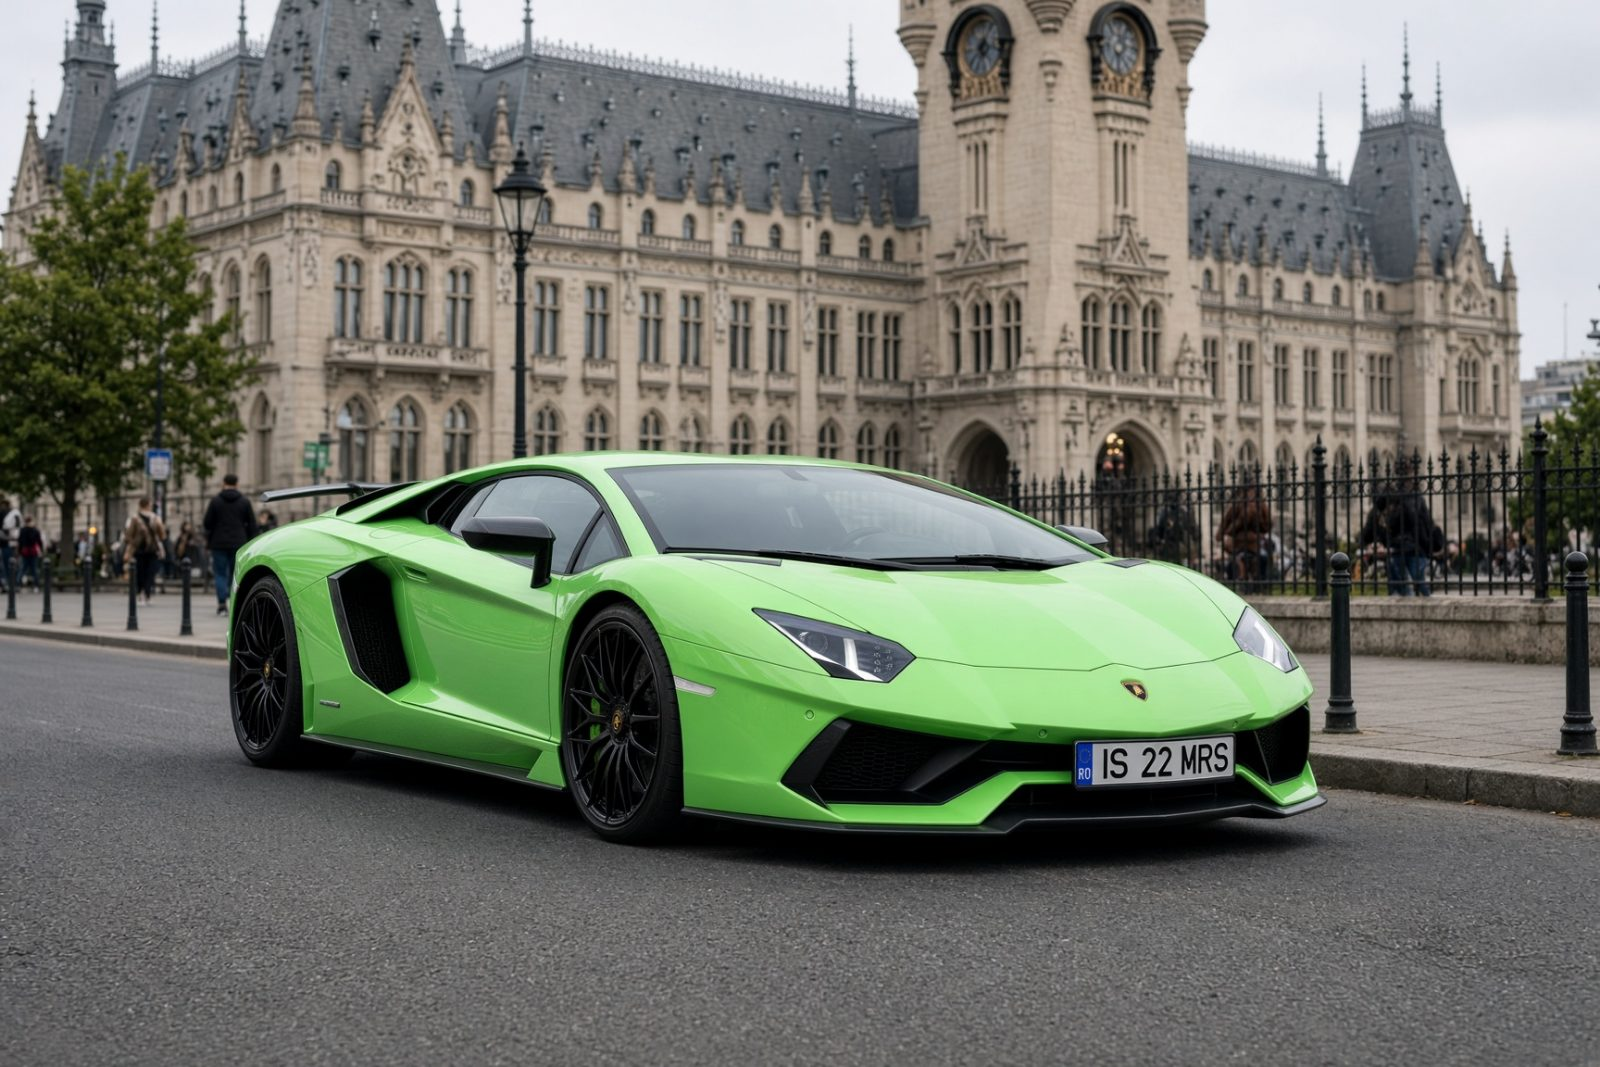
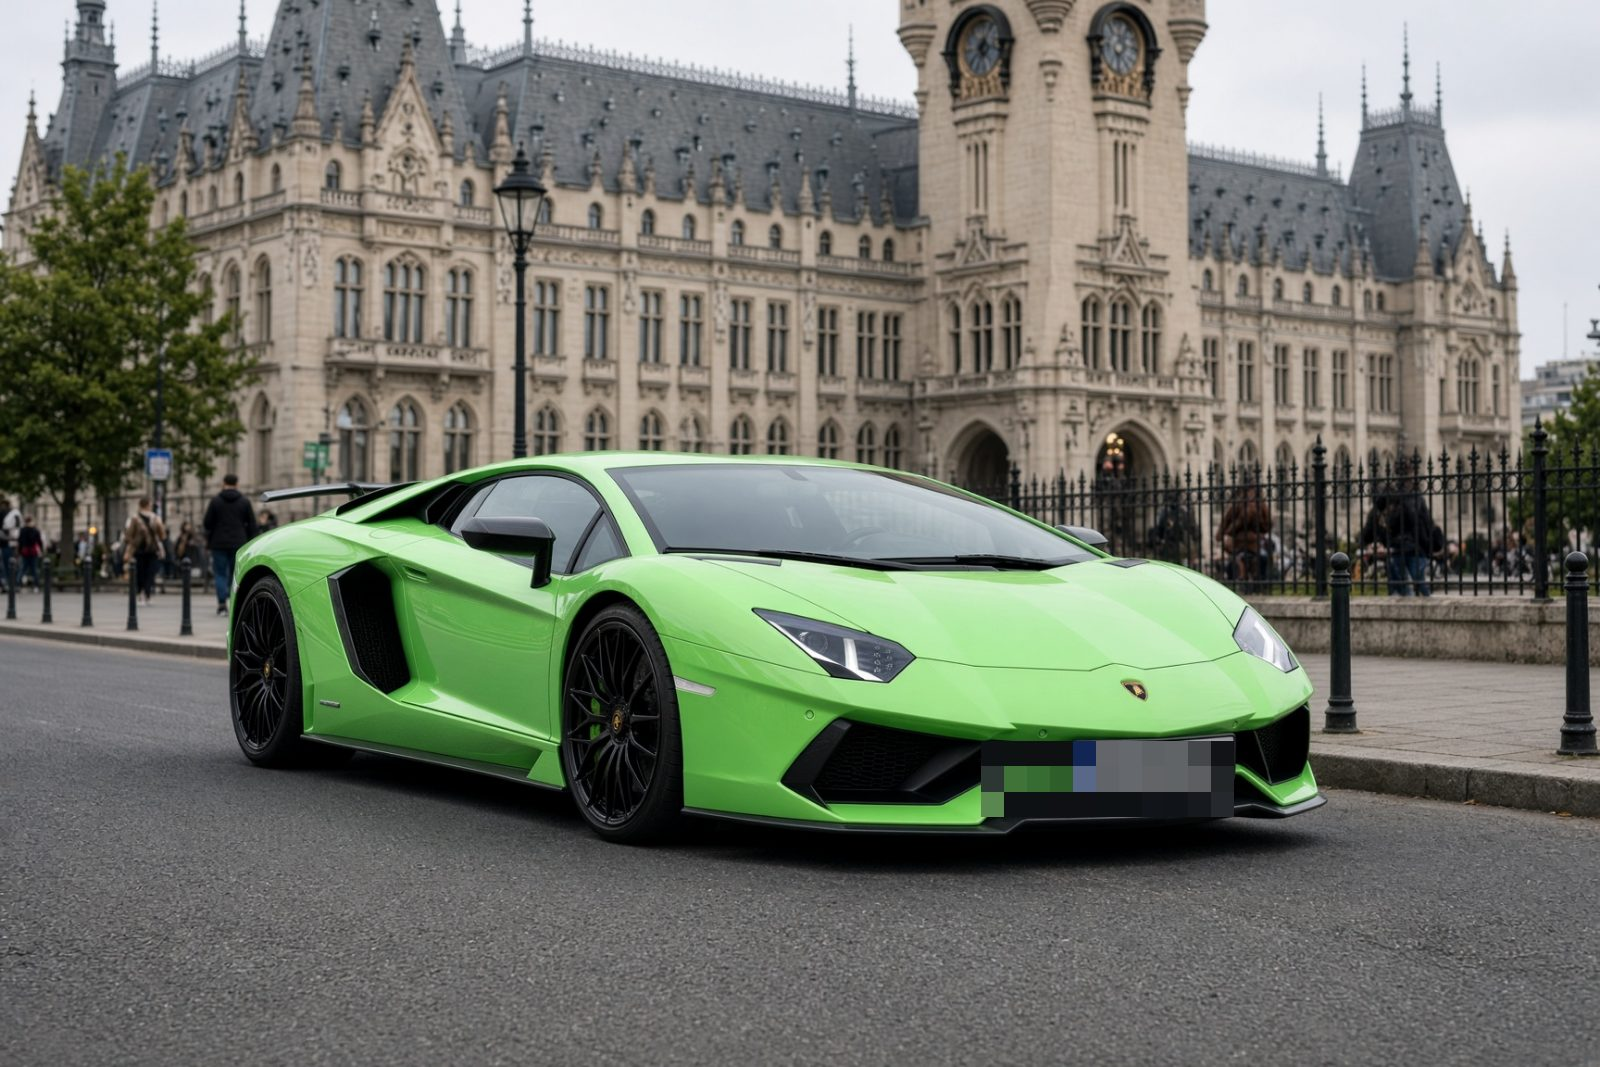
Despre: text Marius (swing, 6+ ani), plăci blurate, Telegram Free Marius FX, polish v=3

Changed region(s): [[0.5938, 0.6804, 0.7812, 0.7732]]

diff --git a/styles.css b/styles.css
@@ -101,12 +101,25 @@ img { max-width: 100%; display: block; }
 .slot { margin: 0; }
 .slot a { display: block; }
 .slot-img {
-  aspect-ratio: 16 / 10; border: 2px dashed #2c3d5f; border-radius: var(--radius); background: rgba(15,24,41,.5);
-  display: flex; flex-direction: column; align-items: center; justify-content: center; gap: .6rem; color: var(--muted); font-weight: 600; font-size: .95rem; text-align: center; padding: 1rem;
+  aspect-ratio: 16 / 10; border: 1.5px dashed #2a3a58; border-radius: var(--radius);
+  background:
+    linear-gradient(180deg, rgba(34,197,94,.04), transparent 60%),
+    rgba(15,24,41,.55);
+  display: flex; flex-direction: column; align-items: center; justify-content: center; gap: .6rem;
+  color: var(--muted); font-weight: 600; font-size: .92rem; text-align: center; padding: 1rem;
+  transition: border-color .25s, background .25s;
 }
-.slot-icon { width: 44px; height: 44px; border-radius: 50%; border: 1.5px dashed #3a4f78; display: grid; place-items: center; font-size: 1.5rem; line-height: 1; color: var(--muted); font-weight: 400; }
-.slot-img.has-img { border: 1px solid var(--border); padding: 0; overflow: hidden; background: var(--surface); }
-.slot-img.has-img img { width: 100%; height: 100%; object-fit: cover; object-position: top; }
+.slot:hover .slot-img { border-color: rgba(34,197,94,.45); }
+.slot-icon {
+  width: 42px; height: 42px; border-radius: 50%; border: 1.5px dashed #3a4f78;
+  display: grid; place-items: center; font-size: 1.4rem; line-height: 1; color: var(--green); font-weight: 400;
+  background: var(--green-soft);
+}
+.slot-img.has-img { border: 1px solid var(--border); border-style: solid; padding: 0; overflow: hidden; background: var(--surface); }
+.slot-img.has-img img {
+  display: block; width: 100%; height: auto; max-width: 100%;
+  aspect-ratio: 16 / 10; object-fit: contain; object-position: top;
+}
 .slot figcaption { display: flex; justify-content: space-between; align-items: baseline; gap: 1rem; margin-top: .8rem; font-size: .92rem; }
 .slot figcaption strong { color: var(--green); font-family: var(--mono); font-weight: 500; font-size: .85rem; text-transform: uppercase; letter-spacing: .05em; }
 .slot figcaption span { color: var(--muted); }
@@ -140,15 +153,41 @@ input:focus, textarea:focus { outline: none; border-color: var(--green); box-sha
 .pos { color: var(--green-2); } .neg { color: var(--red); }
 
 /* Despre */
-.about { display: grid; grid-template-columns: 300px 1fr; gap: 3.5rem; align-items: center; }
-.about-photo { aspect-ratio: 1; border-radius: 20px; border: 2px dashed #2c3d5f; background: radial-gradient(circle at 30% 30%, var(--surface-2), var(--bg-2)); display: grid; place-items: center; color: var(--muted); font-weight: 600; }
-.about p:not(.kicker) { color: var(--muted); margin: 1rem 0 0; }
-.about-list { display: flex; flex-wrap: wrap; gap: .6rem; margin-top: 1.5rem; }
-.about-list li { border: 1px solid var(--border); background: var(--surface); padding: .45rem 1rem; border-radius: 999px; font-size: .9rem; font-weight: 600; }
+.about { display: grid; grid-template-columns: 160px 1fr; gap: 2.5rem; align-items: start; }
+.about-mark {
+  width: 140px; height: 140px; border-radius: 28px;
+  background: linear-gradient(145deg, var(--green-soft), var(--surface));
+  border: 1px solid rgba(34,197,94,.35);
+  display: grid; place-items: center; box-shadow: 0 12px 40px -18px rgba(34,197,94,.55);
+}
+.about-initial {
+  font-size: 4rem; font-weight: 800; line-height: 1; color: var(--green);
+  letter-spacing: -.04em;
+}
+.about-copy h2 { font-size: clamp(2rem, 4vw, 2.6rem); margin-bottom: .25rem; }
+.about-lead { font-size: 1.12rem; color: var(--text) !important; }
+.about p:not(.kicker) { color: var(--muted); margin: 1rem 0 0; line-height: 1.75; }
+.about-list { display: flex; flex-wrap: wrap; gap: .65rem; margin-top: 1.75rem; }
+.about-list li {
+  border: 1px solid rgba(34,197,94,.35); background: var(--green-soft);
+  color: var(--green-2); padding: .5rem 1.1rem; border-radius: 999px;
+  font-size: .9rem; font-weight: 700;
+}
 
 /* Galerie foto (Despre) — imaginile se afișează ÎNTREGI, la proporția naturală 3:2 */
 .photo-gallery { display: grid; grid-template-columns: 1fr 1fr; gap: 1.5rem; margin-top: 3rem; align-items: start; }
-.gallery-item { display: block; border-radius: var(--radius); overflow: hidden; border: 1px solid var(--border); background: var(--surface); cursor: zoom-in; line-height: 0; }
+.gallery-item {
+  display: block; border-radius: var(--radius); overflow: hidden;
+  border: 1px solid var(--border); background: var(--surface);
+  cursor: zoom-in; line-height: 0;
+  opacity: 0; transform: translateY(12px);
+  animation: galleryIn .7s ease forwards;
+}
+.gallery-item:nth-child(2) { animation-delay: .12s; }
+@keyframes galleryIn { to { opacity: 1; transform: none; } }
+@media (prefers-reduced-motion: reduce) {
+  .gallery-item { opacity: 1; transform: none; animation: none; }
+}
 .gallery-item img {
   display: block; width: 100%; height: auto;          /* height:auto e obligatoriu (Safari/iOS) */
   max-width: 100%; aspect-ratio: 3 / 2; object-fit: contain;
@@ -171,6 +210,12 @@ input:focus, textarea:focus { outline: none; border-color: var(--green); box-sha
 .socials { display: flex; flex-wrap: wrap; gap: .6rem; margin-top: 1.75rem; }
 .socials a { display: inline-block; padding: .45rem 1rem; border: 1px solid var(--border); border-radius: 8px; color: var(--muted); text-decoration: none; font-weight: 600; font-size: .9rem; }
 .socials a:hover { color: var(--text); border-color: var(--green); }
+.social-telegram {
+  border-color: rgba(34,197,94,.45) !important;
+  background: var(--green-soft);
+  color: var(--green-2) !important;
+}
+.social-telegram:hover { background: rgba(34,197,94,.22); }
 .contact-form { display: grid; gap: 1.1rem; background: var(--bg-2); border: 1px solid var(--border); border-radius: 20px; padding: 2rem; }
 .contact-form .btn { justify-self: start; }
 
@@ -192,9 +237,15 @@ input:focus, textarea:focus { outline: none; border-color: var(--green); box-sha
 }
 @media (max-width: 820px) {
   .menu-toggle { display: grid; }
-  .nav-links { position: absolute; top: 68px; left: 0; right: 0; flex-direction: column; gap: 0; background: var(--bg); border-bottom: 1px solid var(--border); padding: .5rem 1.5rem 1rem; display: none; }
+  .nav-links {
+    position: absolute; top: 68px; left: 0; right: 0; flex-direction: column; gap: 0;
+    background: rgba(7,11,20,.97); backdrop-filter: blur(12px);
+    border-bottom: 1px solid var(--border); padding: .75rem 1.5rem 1.25rem; display: none;
+    box-shadow: 0 16px 40px -20px rgba(0,0,0,.7);
+  }
   .nav-links.open { display: flex; }
-  .nav-links a { display: block; padding: .8rem 0; font-size: 1.05rem; }
+  .nav-links a { display: block; padding: .85rem 0; font-size: 1.05rem; border-bottom: 1px solid var(--border); }
+  .nav-links li:last-child a { border-bottom: 0; }
   .about, .contact-grid { grid-template-columns: 1fr; gap: 2rem; }
   .photo-gallery { grid-template-columns: 1fr; gap: 1rem; margin-top: 2rem; }
   .about-photo { width: min(240px, 70%); }

diff --git a/index.html b/index.html
@@ -17,11 +17,11 @@
   <meta charset="UTF-8">
   <meta name="viewport" content="width=device-width, initial-scale=1">
   <title>Marius FX — Educație pentru trading disciplinat</title>
-  <meta name="description" content="Marius FX: reguli de bază, managementul riscului și educație pentru trading Forex disciplinat. Conținut educațional, nu consultanță financiară.">
+  <meta name="description" content="Marius FX — educație pentru swing trading disciplinat, cu Marius (6+ ani experiență). Reguli de bază, managementul riscului. Conținut educațional, nu consultanță financiară.">
   <link rel="preconnect" href="https://fonts.googleapis.com">
   <link rel="preconnect" href="https://fonts.gstatic.com" crossorigin>
   <link href="https://fonts.googleapis.com/css2?family=Manrope:wght@400;500;600;700;800&family=JetBrains+Mono:wght@500&display=swap" rel="stylesheet">
-  <link rel="stylesheet" href="styles.css?v=2">
+  <link rel="stylesheet" href="styles.css?v=3">
 </head>
 <body>
   <a class="skip-link" href="#continut">Sari la conținut</a>
@@ -51,7 +51,7 @@
       <div class="container hero-inner">
         <p class="badge"><span class="dot"></span> Educație · Disciplină · Managementul riscului</p>
         <h1>Marius <span class="accent">FX</span></h1>
-        <p class="tagline">Tradingul nu înseamnă noroc, ci disciplină. Învață regulile, protejează-ți capitalul și construiește-ți un proces pe care îl poți repeta.</p>
+        <p class="tagline">Sunt Marius, swing trader. Tradingul nu înseamnă noroc, ci disciplină — învață regulile, protejează-ți capitalul și construiește-ți un proces pe care îl poți repeta.</p>
         <div class="cta">
           <a href="#reguli" class="btn btn-primary">Vezi regulile de bază</a>
           <a href="#calculator" class="btn btn-ghost">Încearcă simulatorul</a>
@@ -144,28 +144,30 @@
     <!-- ===== DESPRE ===== -->
     <section class="section container" id="despre">
       <div class="about">
-        <div class="about-photo" role="img" aria-label="Loc pentru fotografia ta"><span>[Fotografia ta]</span></div>
-        <div>
+        <div class="about-mark" aria-hidden="true">
+          <span class="about-initial">M</span>
+        </div>
+        <div class="about-copy">
           <p class="kicker">04 — Cine sunt</p>
-          <h2>Despre Marius FX</h2>
-          <p>[Scrie aici cine ești, de când te ocupi de trading și de ce ai creat Marius FX.]</p>
-          <p>[Descrie abordarea ta: ce stil de trading practici, pe ce piețe și ce vrei să îi înveți pe ceilalți.]</p>
+          <h2>Despre Marius</h2>
+          <p class="about-lead">Mă numesc Marius și sunt swing trader de peste șase ani. Am început aproape de la zero, fără pe nimeni aproape care să mă îndrume — doar cu răbdare, greșeli și foarte multă disciplină.</p>
+          <p>După mulți ani de practică am ajuns să tranzacționez consecvent și, prin Marius FX, vreau să îi ajut pe alții să învețe un proces clar, bazat pe managementul riscului și pe educație, nu pe promisiuni.</p>
           <ul class="about-list">
-            <li>[Experiență: X ani în trading]</li>
-            <li>[Piețe preferate, ex. EUR/USD]</li>
-            <li>[Stil, ex. swing trading]</li>
+            <li>6+ ani experiență</li>
+            <li>Swing trading</li>
+            <li>Educație și disciplină</li>
           </ul>
         </div>
       </div>
 
       <!-- Galerie foto personală (click = mărire). Fișiere: images/masina-1.jpg, images/masina-2.jpg -->
       <div class="photo-gallery" aria-label="Fotografii personale">
-        <a class="gallery-item" href="images/masina-1.jpg" data-lightbox>
-          <img src="images/masina-1.jpg" width="1600" height="1067" loading="lazy" decoding="async"
+        <a class="gallery-item" href="images/masina-1.jpg?v=3" data-lightbox>
+          <img src="images/masina-1.jpg?v=3" width="1600" height="1067" loading="lazy" decoding="async"
                alt="Mașina mea în fața Palatului Culturii din Iași, văzută din față">
         </a>
-        <a class="gallery-item" href="images/masina-2.jpg" data-lightbox>
-          <img src="images/masina-2.jpg" width="1600" height="1067" loading="lazy" decoding="async"
+        <a class="gallery-item" href="images/masina-2.jpg?v=3" data-lightbox>
+          <img src="images/masina-2.jpg?v=3" width="1600" height="1067" loading="lazy" decoding="async"
                alt="Mașina mea în fața Palatului Culturii din Iași, văzută din spate">
         </a>
       </div>
@@ -188,7 +190,7 @@
           <p>Ai întrebări despre materialele educaționale? Scrie-mi.</p>
           <a class="email" href="mailto:exemplu@email.com">[exemplu@email.com]</a>
           <ul class="socials">
-            <li><a href="#">[Telegram]</a></li>
+            <li><a class="social-telegram" href="https://t.me/FreeMariusFx" target="_blank" rel="noopener noreferrer">Telegram · Comunitatea gratuită Free Marius FX</a></li>
             <li><a href="#">[Instagram]</a></li>
             <li><a href="#">[YouTube]</a></li>
             <li><a href="#">[TikTok]</a></li>
@@ -214,12 +216,12 @@
         <p><strong>Rezultatele din trecut nu garantează rezultate viitoare.</strong> Tot conținutul de pe acest site are <strong>scop exclusiv educațional</strong> și <strong>nu constituie consultanță financiară</strong> sau de investiții, ori o recomandare de a cumpăra sau vinde vreun instrument financiar. Nu investi niciodată bani pe care nu îți permiți să îi pierzi.</p>
       </div>
       <div class="footer-bottom">
-        <p>© <span id="an"></span> Marius FX · [Numele tău]</p>
+        <p>© <span id="an"></span> Marius FX · Marius</p>
         <a href="#acasa">Înapoi sus ↑</a>
       </div>
     </div>
   </footer>
 
-  <script src="script.js?v=2"></script>
+  <script src="script.js?v=3"></script>
 </body>
 </html>
